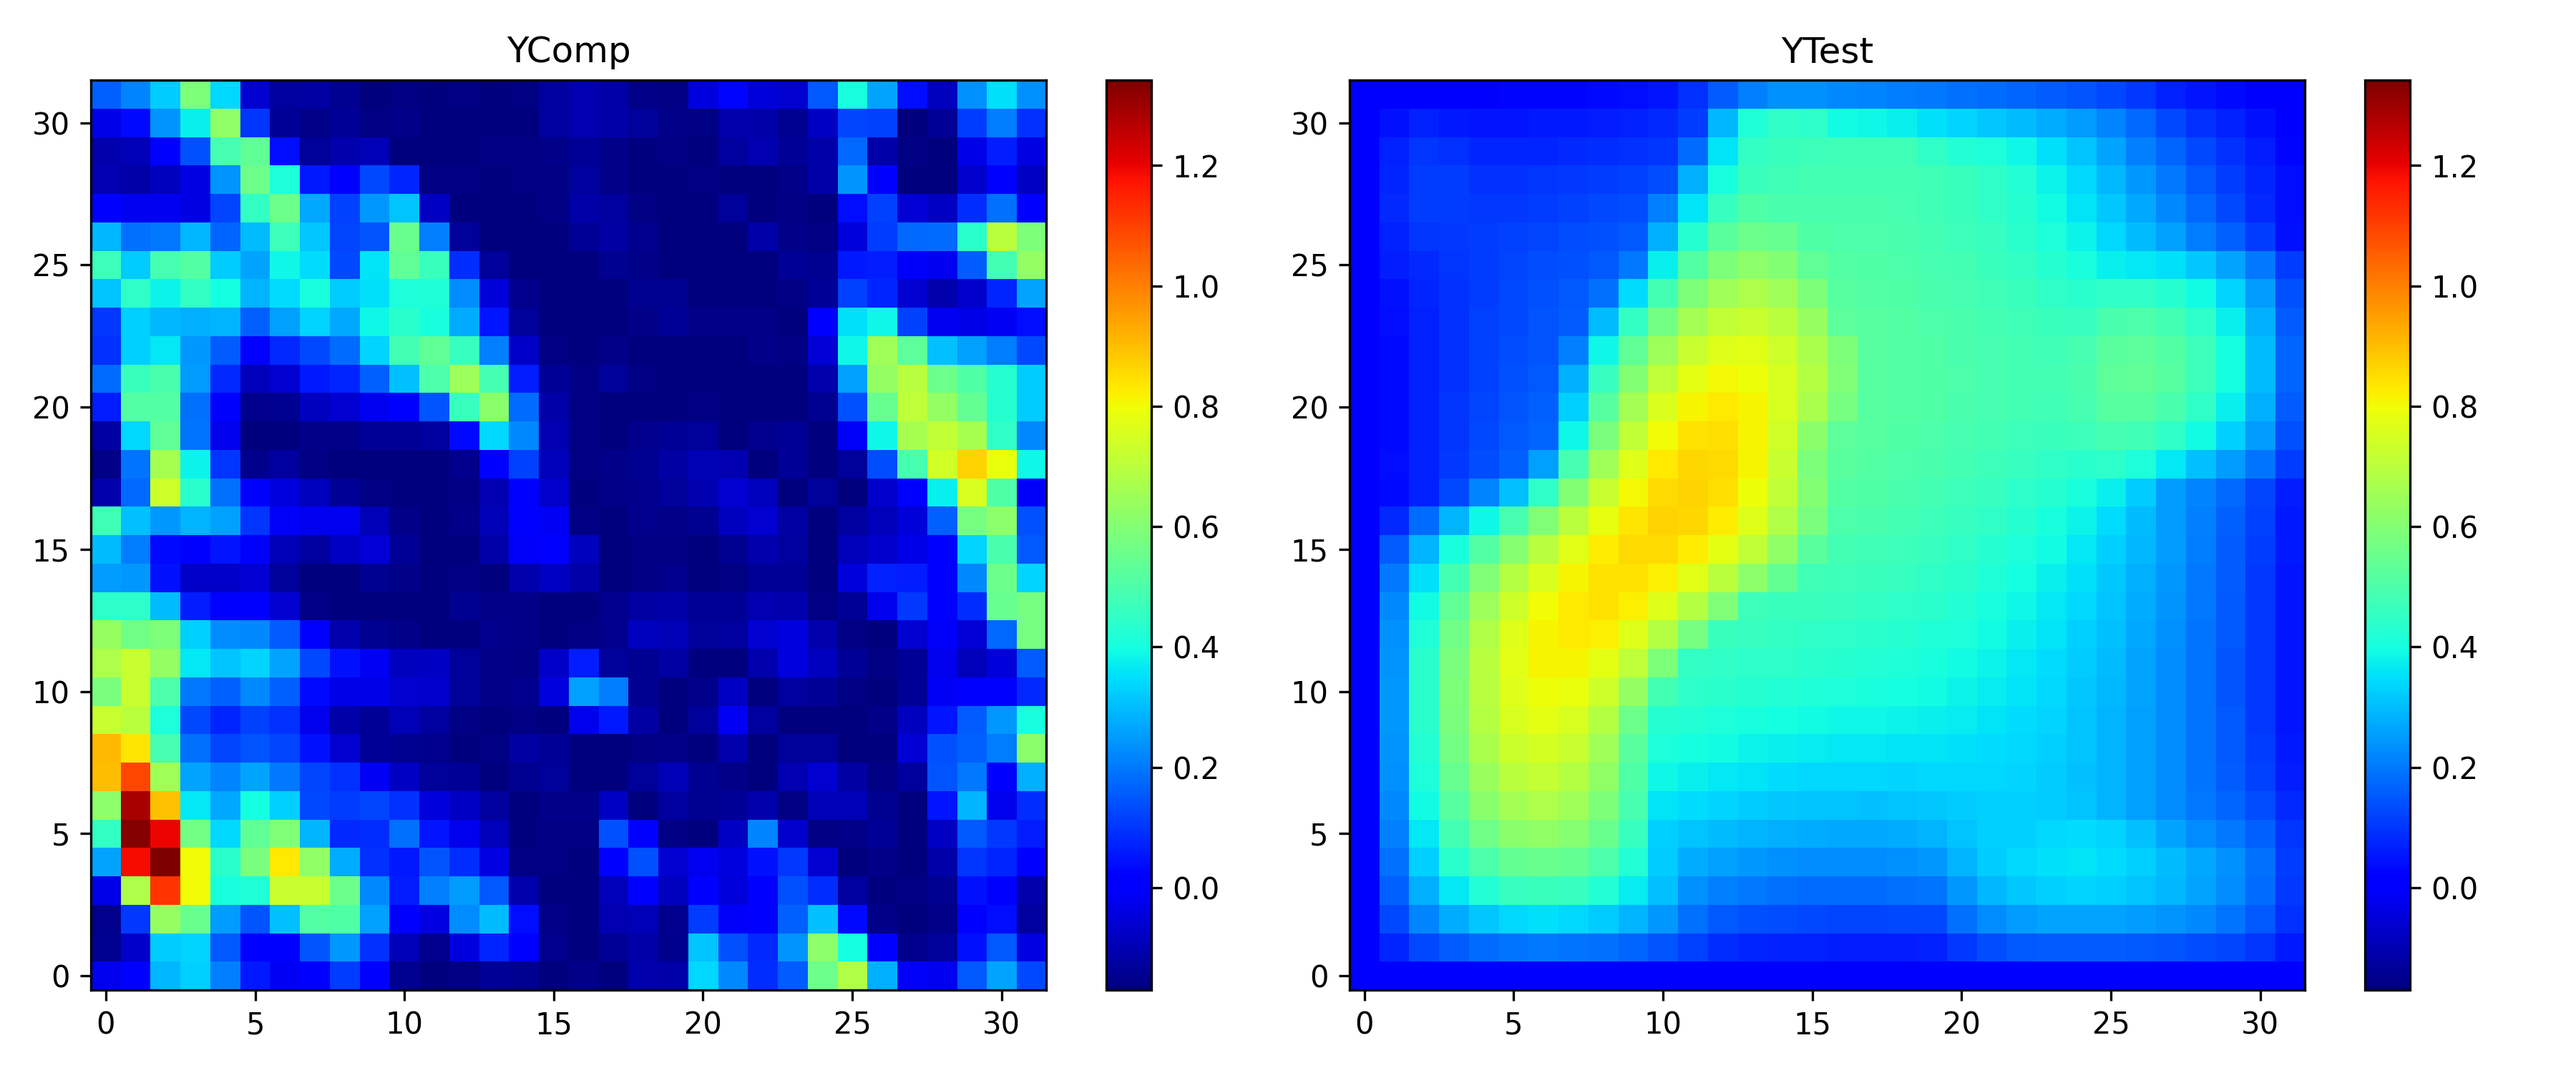
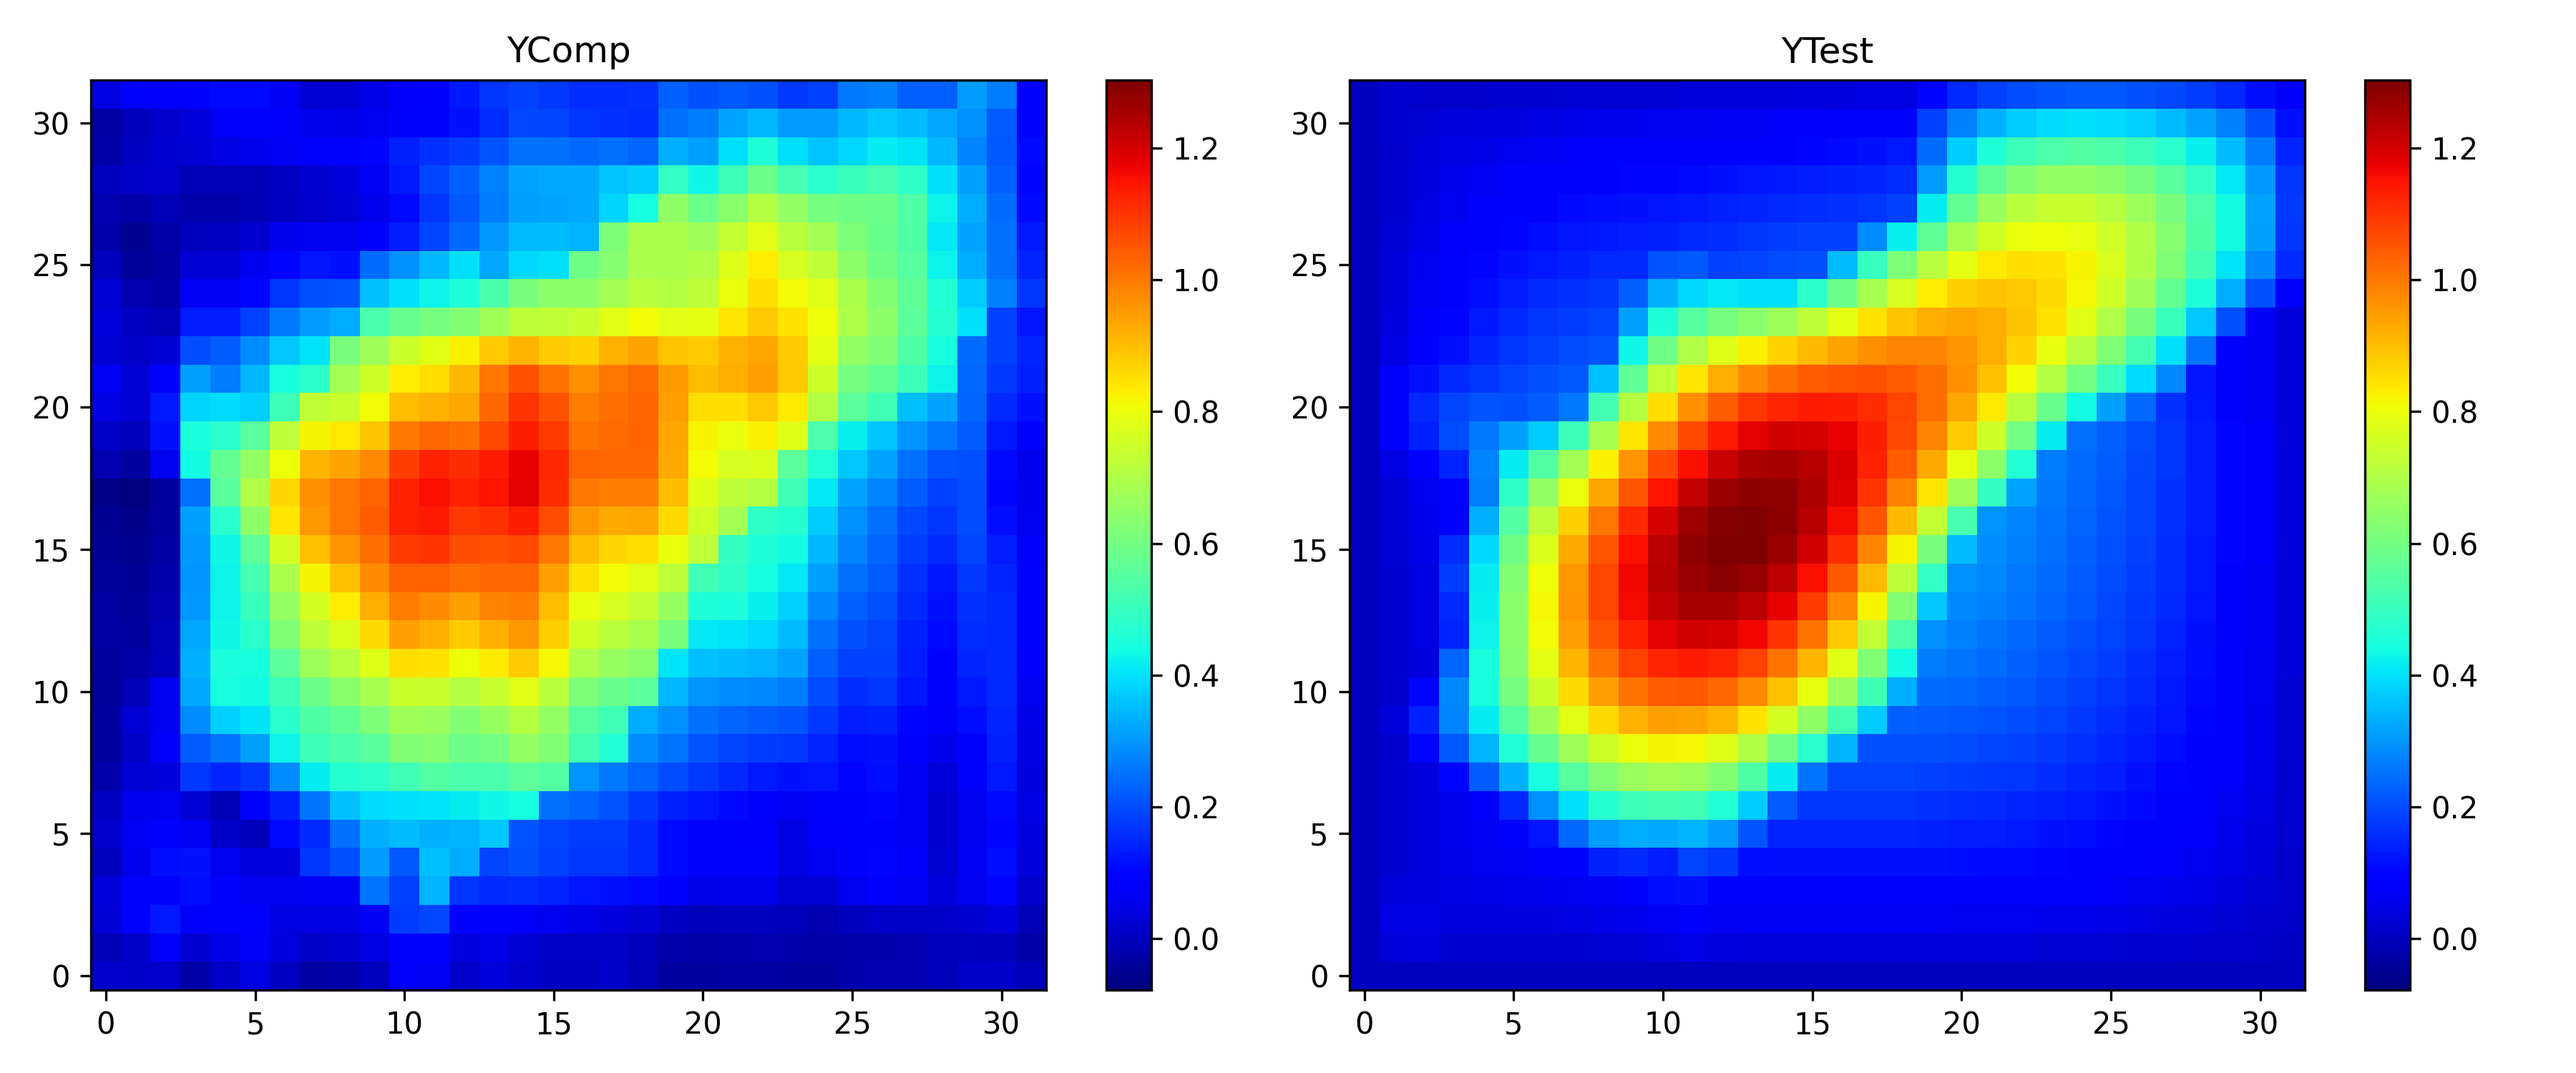
retrained and computed results again

diff --git a/main.py b/main.py
@@ -10,9 +10,9 @@ from postprocessing import plotAndSaveScatter, lossPlot
 
 # Hyperparameters setup
 parser = argparse.ArgumentParser()
-parser.add_argument("--epochs", type=int, default=200)
+parser.add_argument("--epochs", type=int, default=600)
 parser.add_argument("--learningRate", type=float, default=0.001)
-parser.add_argument("--modelTrain", type=bool, default=False)
+parser.add_argument("--modelTrain", type=bool, default=True)
 parser.add_argument("--modelInference", type=bool, default=True)
 parser.add_argument("--comparsionTestSize", type=int, default=5)
 args = parser.parse_args()
@@ -49,7 +49,7 @@ if args.modelTrain==True:
 
     # Training details setup
     model.train()
-    optimiser = torch.optim.Adam(model.parameters(), lr = args.learningRate)
+    optimiser = torch.optim.Rprop(model.parameters(), lr = args.learningRate)
     mse = nn.MSELoss()
     lossArray = np.zeros((args.epochs, 2))
 

diff --git a/modules.py b/modules.py
@@ -53,7 +53,6 @@ class OperatorBlock(nn.Module):
         outTwo = self.spectralConv(x)
         
         # output of both convolutions added
-        logging.info(f"{outOne.shape}, {outTwo.shape}")
         output = F.gelu(outOne + outTwo)
 
         return output
